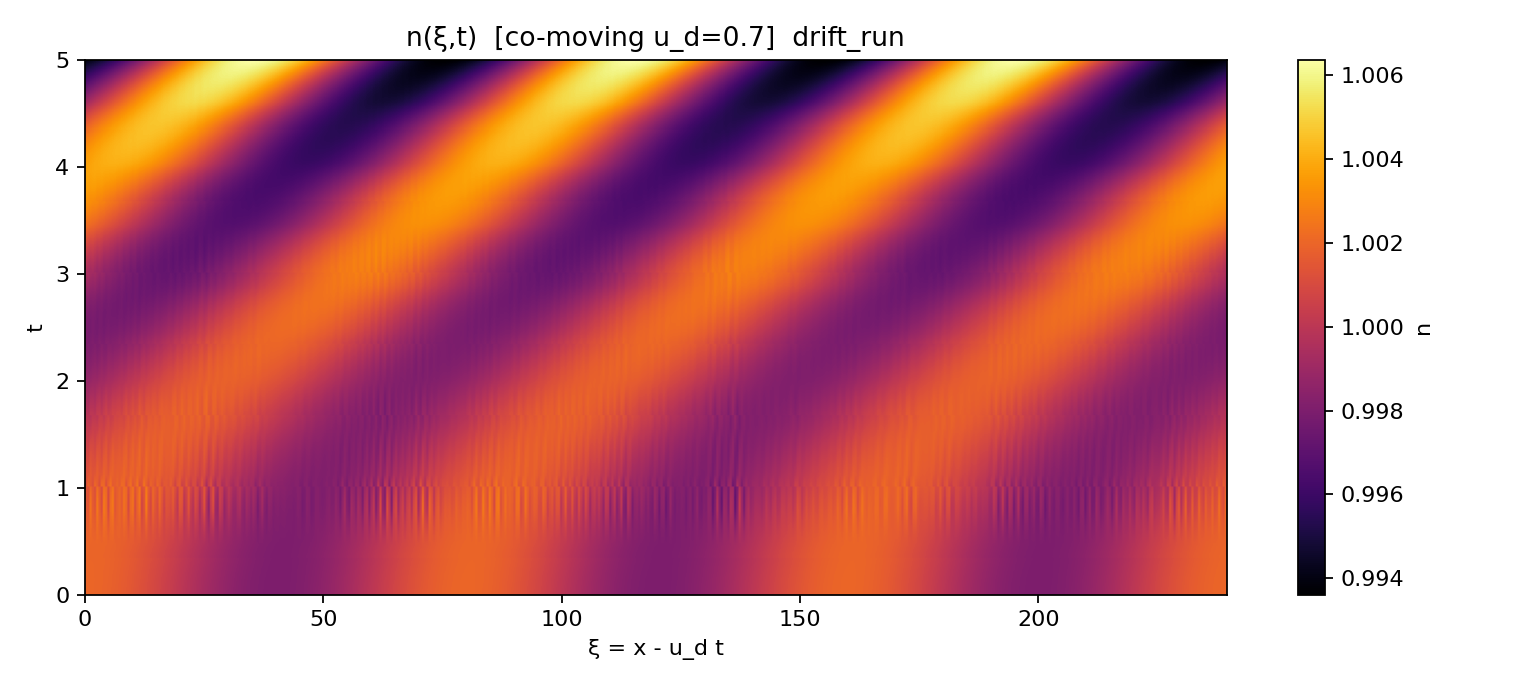
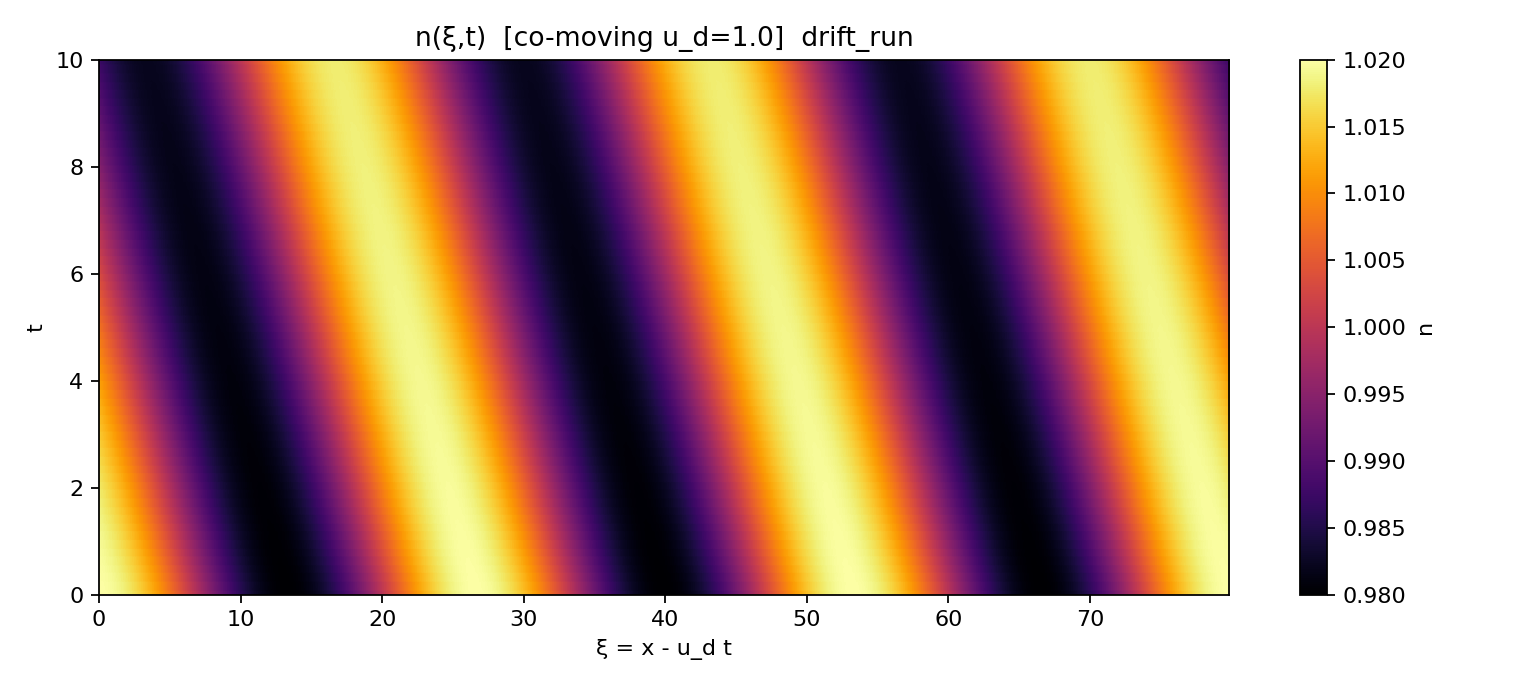
Using the measure in the u_{drift} RF

diff --git a/mass injection/mass injection.py b/mass injection/mass injection.py
@@ -16,7 +16,7 @@ class P:
     include_poisson: bool = False
     eps: float = 20.0
 
-    u_d: float = 0.7#0.6
+    u_d: float = 1.0#0.6
     # u_d: float = .0
     maintain_drift: str = "field"
     Kp: float = 0.15
@@ -33,9 +33,9 @@ class P:
     nbar_amp: float = 0.0
     nbar_sigma: float = 120.0
 
-    L: float = 3*80.0
+    L: float = 80.0
     Nx: int = 512
-    t_final: float = 5.0
+    t_final: float = 10.0
     n_save: int = 360
     # rtol: float = 5e-7
     # atol: float = 5e-9
@@ -44,9 +44,9 @@ class P:
     n_floor: float = 1e-7
     dealias_23: bool = True
 
-    seed_amp_n: float = 2e-3#5e-3
+    seed_amp_n: float = 2e-1#5e-3
     seed_mode: int = 3
-    seed_amp_p: float = 2e-3#5e-3
+    seed_amp_p: float = 2e-1#5e-3
 
     outdir: str = "out_drift"
     cmap: str = "inferno"
@@ -136,7 +136,7 @@ def rhs(t, y, E_base):
     else:
         E_eff = E_base
 
-    dn_dt = -Dx(p) + par.Dn * Dx(n)**2 + SJ *0
+    dn_dt = -Dx(p) + par.Dn * Dxx(n) + SJ *0 + par.u_d*Dx(p)
     dn_dt = filter_23(dn_dt)
 
     Pi = Pi0(n_eff) + (p**2)/(par.m*n_eff)
@@ -146,7 +146,7 @@ def rhs(t, y, E_base):
         phi = phi_from_n(n_eff, nbar)
         force_Phi = n_eff * Dx(phi)
 
-    dp_dt = -Gamma(n_eff)*p - grad_Pi + par.e*n_eff*E_eff - force_Phi + par.Dp * Dx(p)**2
+    dp_dt = -Gamma(n_eff)*p - grad_Pi + par.e*n_eff*E_eff - force_Phi + par.Dp * Dxx(p) + par.u_d*Dx(n)
     dp_dt = filter_23(dp_dt)
 
     return np.concatenate([dn_dt, dp_dt])
